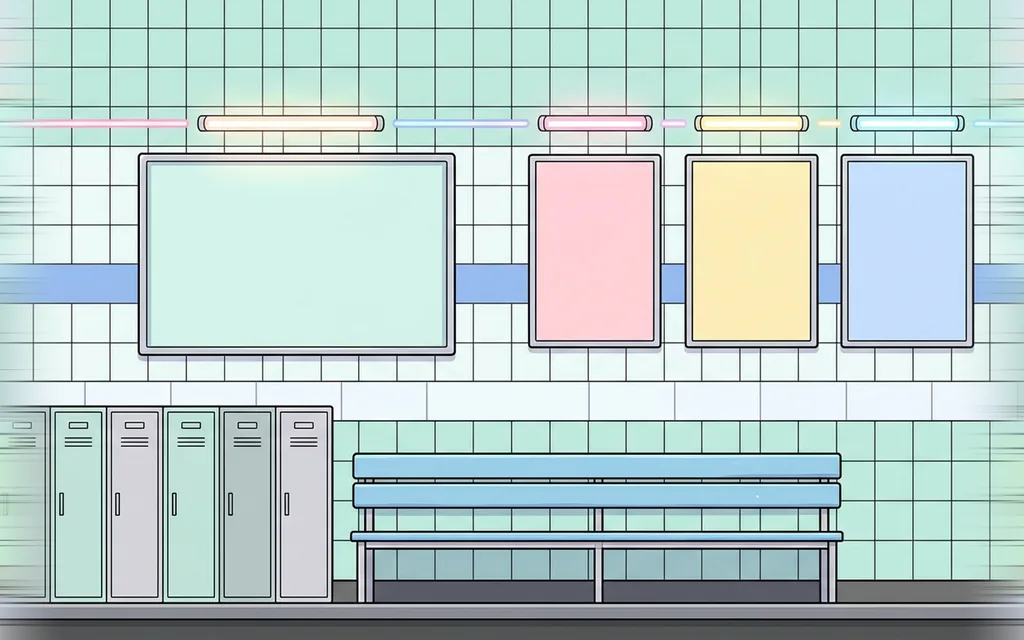
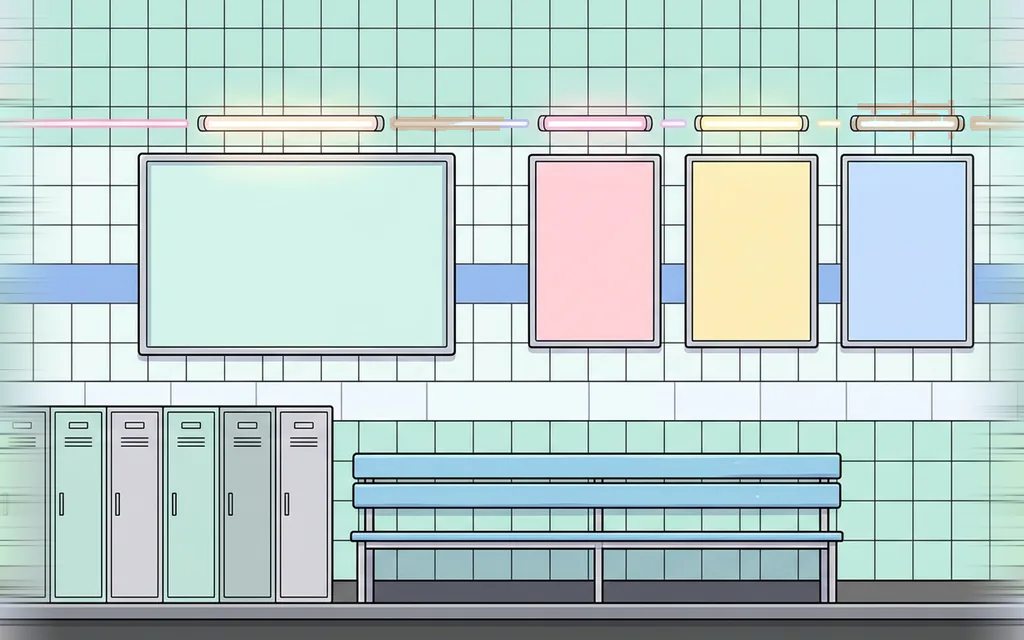
fix: repaint laser-like neon strips on part-2 walls as warm non-glowing signs

Changed region(s): [[0.8125, 0.1562, 1.0, 0.2188], [0.375, 0.1562, 0.5, 0.2188]]

diff --git a/public-office/art/SOURCES.md b/public-office/art/SOURCES.md
@@ -433,3 +433,21 @@ Spend **9 credits** (6 images, nano_banana_flash 1k); part-2 total now **112.5 c
 | `floor-4-night.webp` | nano_banana_flash | 1.5 | $FLOORsoft cool blue-grey night sidewalk with large square paving slabs, only very subtle thin seams, nearly uniform color, flat even lighting, nothing on the floor, no lines across, no markings. |
 | `cut/boss-9-a.webp` | nano_banana_flash (edit, ref = previous generation) | 1.5 | Edit this exact image. Keep everything identical (same character, pose, alley, lanterns, menu board, colors, composition, line style). Change ONLY the green glass bottles on the tables and the ground: replace every bottle with a plain orange soda can or a clear water bottle with a blue cap, no labels, no writing. No alcohol anywhere. |
 | `wall-6-c.webp` | nano_banana_flash (edit, ref = previous generation) | 1.5 | Edit this exact image. Keep everything identical (same shop fronts, doors, crates, plant, fairy lights, colors, composition, line style). Change ONLY two things: remove the pink neon spiral shape and remove the cyan neon star outline on the wall, painting plain wall bricks there instead. No new neon shapes, no symbols, no writing. |
+
+## Neon-strip pass (2026-11-03, 0 credits)
+
+Long thin glowing cyan / magenta / red strokes can read as laser hazards at phone size. A local repaint (`deneon.py`, job tmp dir)
+turned saturated bright cyan, magenta and red pixels (sat > 0.22, value > 0.45) plus their 3 px glow halo into a muted,
+non-glowing amber (hue 35°, saturation ≤ 0.28, value × 0.88). It worked only inside these regions (wall coordinates), on the
+generated sources, and then the per-theme 64 px edge profile was recomputed, so every variant of a theme changed in its outer
+64 px:
+- `wall-4-a` and `wall-4-b` below y 70 (the neon tubes behind the bus stop and the long cyan strip on the right-hand roof);
+- `wall-5-a` row of coloured light tubes (y 100–160);
+- `wall-5-b` row of cyan lights under the gate sign (y 215–250);
+- `wall-5-c` glowing cyan display bar;
+- `wall-6-b` cyan sign outlines and the red sign on the right brick wall;
+- `wall-4-night-a` small pink/cyan door lights.
+
+Afterwards I re-scanned every theme 4–6 and 4-night wall for saturated cyan/red/magenta runs at least 60 px wide and at most
+1/5 as tall as wide. The runs that remain are not glowing: the light-blue bench in `wall-5-a`, the orange tent and flat
+dark-red counter in `wall-6-b`, and a flat blue sign border in `wall-4-night-b`.
